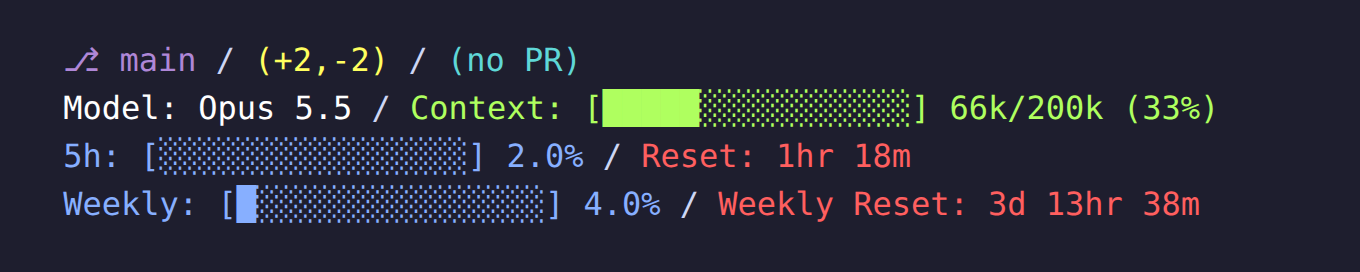
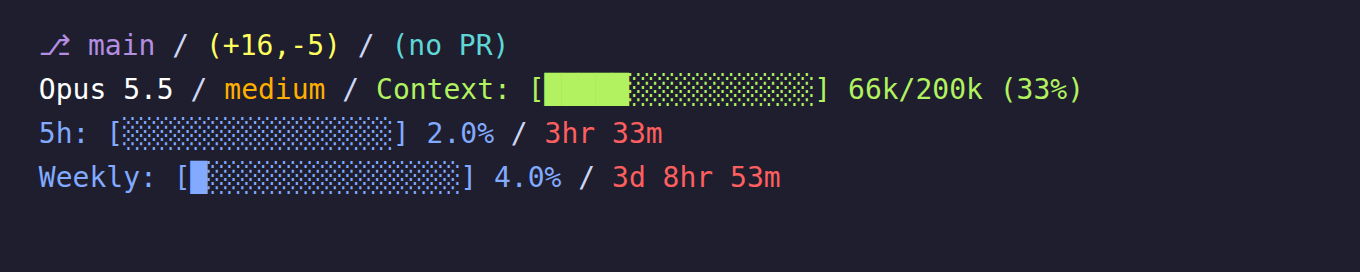
Add thinking effort widget, drop redundant labels, refresh screenshot and README

Changed region(s): [[0.0309, 0.1176, 0.8956, 0.8235]]

diff --git a/README.md b/README.md
@@ -2,7 +2,7 @@
 
 My [ccstatusline](https://github.com/sirmalloc/ccstatusline) setup for the Claude Code status line.
 
-![Status line showing git, model and context, 5-hour usage, and weekly usage](assets/statusline.png)
+![Status line showing git, model, effort and context, 5-hour usage, and weekly usage](assets/statusline.png)
 
 ## Prompts
 Paste one of these into Claude Code.
@@ -17,7 +17,7 @@ Set up my Claude Code status line with ccstatusline (https://github.com/sirmallo
 2. If ~/.config/ccstatusline/settings.json exists, back it up to settings.json.bak-<today's date> in the same folder before changing anything.
 3. Download https://raw.githubusercontent.com/adithya-s-edstem/ccstatusline-config/main/ccstatusline-config.json and save it as ~/.config/ccstatusline/settings.json (create the folder if needed; on Windows this is %USERPROFILE%\.config\ccstatusline\settings.json).
 4. In ~/.claude/settings.json, set "statusLine" to {"type": "command", "command": "ccstatusline", "padding": 0}. Keep every other setting as is, and show me the old statusLine value if one existed.
-5. Verify: pipe sample input into it, e.g. echo '{"model":{"display_name":"Opus"},"cwd":"."}' | ccstatusline, and show me the output. It should print git, model, session usage and weekly usage lines.
+5. Verify: pipe sample input into it, e.g. echo '{"model":{"display_name":"Opus"},"cwd":"."}' | ccstatusline, and show me the output. It should print git, model and effort, session usage and weekly usage lines.
 6. Tell me where the backup is and that the new status line appears on the next refresh.
 ```
 
@@ -38,19 +38,19 @@ Update my ccstatusline (https://github.com/sirmalloc/ccstatusline) Claude Code s
 ## Layout
 ```
  ⎇ main / (+0,-0) / (no PR)
- Model: Opus 5.5 / [context bar]
- 5h: [░░░░░░░░░░░░░░░░] 2.0% / Reset: 2h 10m
- Weekly: [░░░░░░░░░░░░░░░░] 0.0% / Weekly Reset: 5d 8hr 30m
+ Opus 5.5 / medium / Context: [context bar] 66k/200k (33%)
+ 5h: [░░░░░░░░░░░░░░░░] 2.0% / 2h 10m
+ Weekly: [░░░░░░░░░░░░░░░░] 0.0% / 5d 8hr 30m
 ```
 
 | Line | Widgets | Colors |
 |---|---|---|
 | 1 | git branch, git changes, PR review | magenta, yellow, cyan |
-| 2 | model, context bar | white, green |
+| 2 | model, thinking effort, context bar | white, orange, green |
 | 3 | 5-hour block usage, 5-hour reset timer | blue, red |
 | 4 | weekly usage, weekly reset timer | blue, red |
 
-Usage meters share blue and reset timers share red.
+Usage meters share blue and reset timers share red. Labels are kept only where a value would be ambiguous (branch icon, Context, 5h, Weekly); everything else shows its raw value.
 
 ## Save changes back to the repo
 After editing in the TUI (`ccstatusline`), copy the live config back here so the repo stays current:
